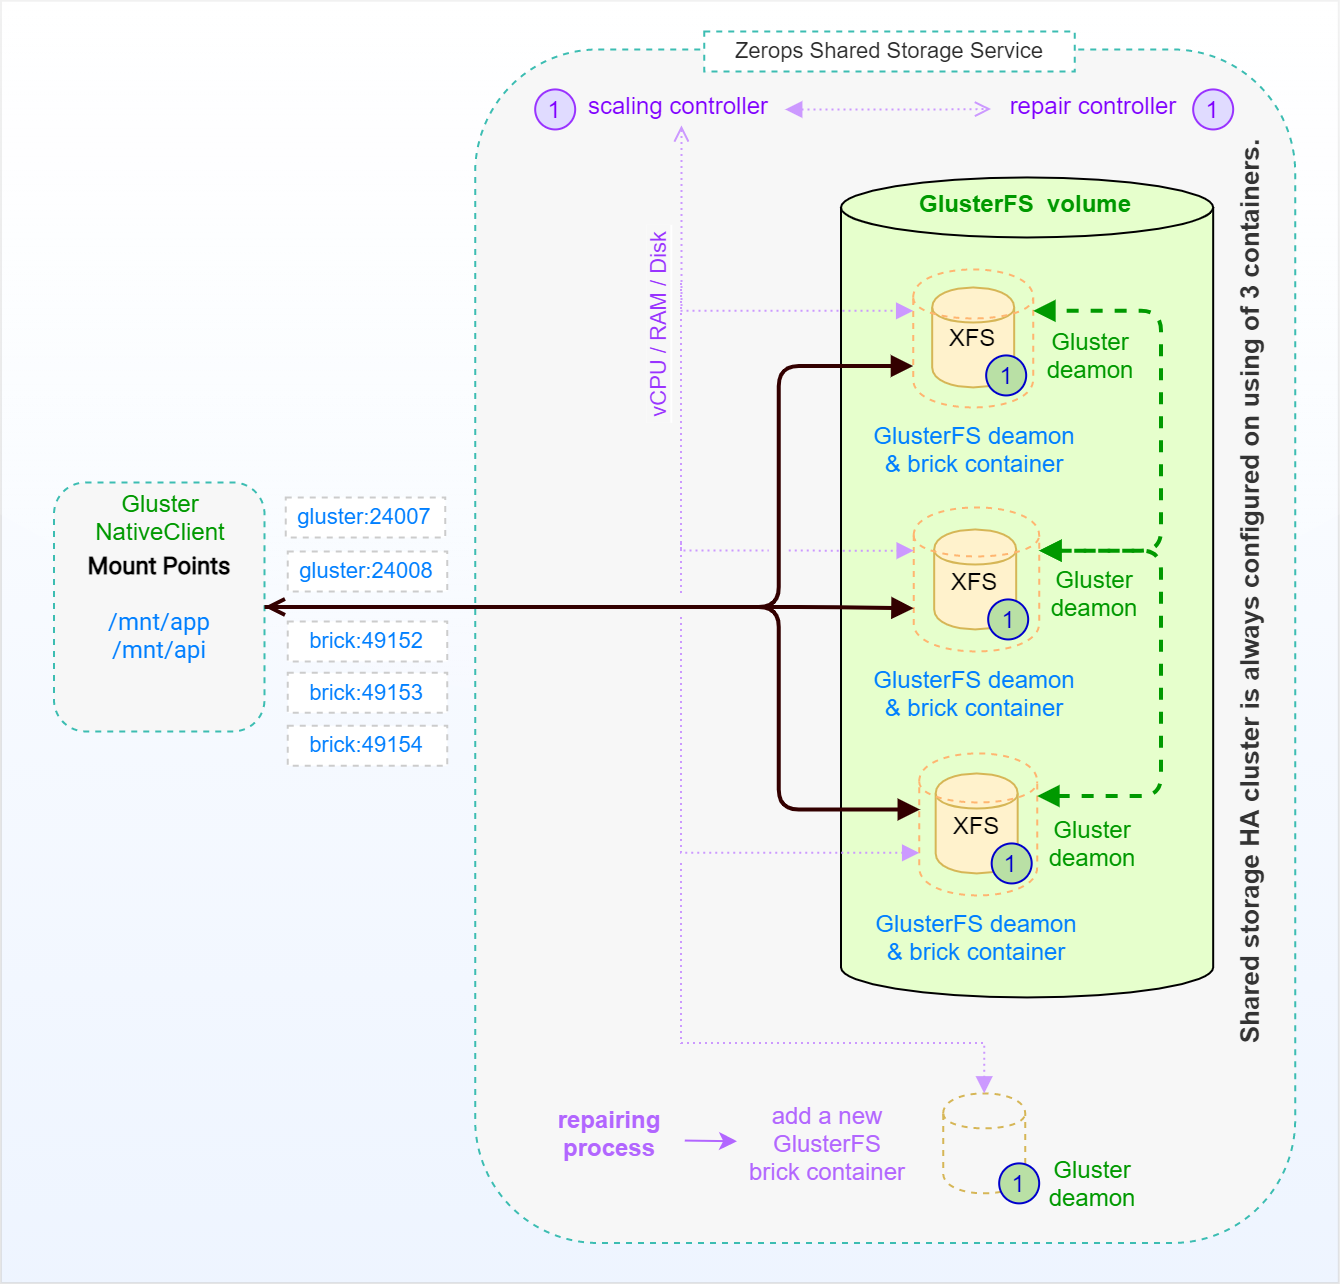
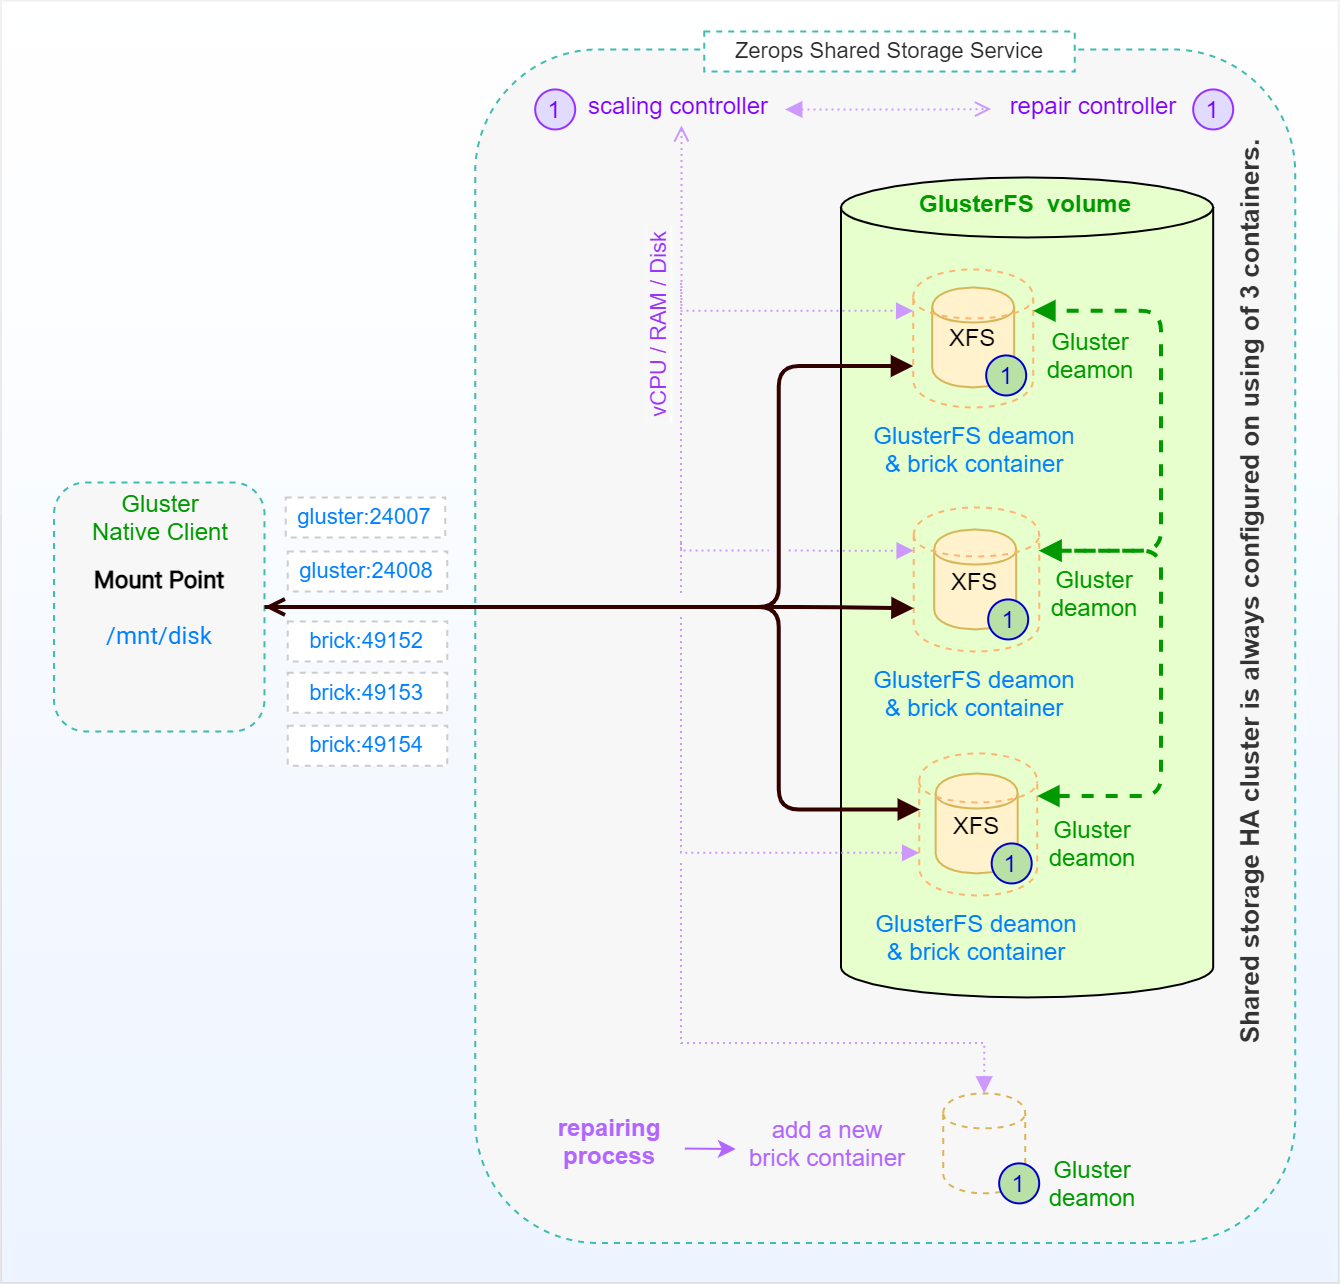
docs(services): shared storage

Changed region(s): [[0.0612, 0.4044, 0.1836, 0.5288], [0.5201, 0.8398, 0.6731, 0.9331], [0.3978, 0.8709, 0.4896, 0.902]]

diff --git a/src/documentation/overview/how-zerops-works-inside/glusterfs-cluster-internally.md b/src/documentation/overview/how-zerops-works-inside/glusterfs-cluster-internally.md
@@ -1,12 +1,12 @@
 # Shared Storage Service, Internal
 
-The following image shows a simplified schema of a [Zerops Shared Storage Service](/documentation/services/storage/shared.html) based on the [GlusterFS cluster](https://docs.gluster.org/en/latest/Quick-Start-Guide/Architecture) technology.
+The following picture shows a simplified schema of a [Zerops Shared Storage Service](/documentation/services/storage/shared.html) based on the [GlusterFS cluster](https://docs.gluster.org/en/latest/Quick-Start-Guide/Architecture) technology.
 
 A **gluster volume** in Zerops is a collection of 3 [containers](https://linuxcontainers.org/#LXD). Management **Gluster deamons** run on each container and manage brick processes (**GlusterFS deamons**), which in turn export the underlying on disk storage (XFS filesystem).
 
 The **gluster native client** process mounts the volume and exposes the storage from all the bricks as a single unified storage namespace to the applications accessing it. I/O from the applications is routed to different bricks based on internal optimization mechanisms and rules.
 
-The following picture supposes that the shared storage has been mounted in two [runtime services](/documentation/services/storage/shared.html#storage-mounting) with hostnames ==**app**== and ==**api**== .
+The picture also supposes that the chosen [shared storage name](/documentation/services/storage/shared.html#shared-storage-name) has been **disk** and mounted in any [runtime service](/documentation/services/storage/shared.html#storage-mounting).
 
 ![Zerops Shared Storage Service](./images/Zerops-GlusterFS-Service-Detail.png "Zerops Shared Storage Service")
 

diff --git a/src/documentation/overview/how-zerops-works-inside/mariadb-galera-cluster-internally.md b/src/documentation/overview/how-zerops-works-inside/mariadb-galera-cluster-internally.md
@@ -1,6 +1,6 @@
 # MariaDB Service in HA Mode, Internal
 
-The following image shows a simplified schema of a standalone [Zerops MariaDB Service](/documentation/services/databases/mariadb.html) in HA mode (with a default of 3 database instances in a [Galera cluster](https://mariadb.com/kb/en/galera-cluster)) without external access. This means no access from outside of the Zerops project infrastructure, such as the Internet. There is only native access through a private network using a [default port](/documentation/services/databases/mariadb.html#hostname-and-port) **==3306==** from the [Zerops Project Core Service](/documentation/overview/how-zerops-works-inside/typical-schemas-of-zerops-projects.html) itself, which is the heart of each user-defined Zerops project.
+The following picture shows a simplified schema of a standalone [Zerops MariaDB Service](/documentation/services/databases/mariadb.html) in HA mode (with a default of 3 database instances in a [Galera cluster](https://mariadb.com/kb/en/galera-cluster)) without external access. This means no access from outside of the Zerops project infrastructure, such as the Internet. There is only native access through a private network using a [default port](/documentation/services/databases/mariadb.html#hostname-and-port) **==3306==** from the [Zerops Project Core Service](/documentation/overview/how-zerops-works-inside/typical-schemas-of-zerops-projects.html) itself, which is the heart of each user-defined Zerops project.
 
 ## Simplified schema (no external access)
 

diff --git a/src/documentation/overview/how-zerops-works-inside/php-cluster-internally.md b/src/documentation/overview/how-zerops-works-inside/php-cluster-internally.md
@@ -1,6 +1,6 @@
 # PHP Service in HA Mode, Internal
 
-The following image shows a simplified schema of a standalone [Zerops PHP Service](/documentation/services/runtimes/php.html) in HA mode with a default of **3** runtime environment instances (horizontally scaled **up to 64** instances) as a **PHP cluster** without external access. This means no access from outside of the Zerops project infrastructure, such as the Internet. There is only native access through a private network using a [default port](/documentation/services/runtimes/php.html#hostname-and-port) **==80==** from the [Zerops Project Core Service](/documentation/overview/how-zerops-works-inside/typical-schemas-of-zerops-projects.html) itself, which is the heart of each user-defined Zerops project.
+The following picture shows a simplified schema of a standalone [Zerops PHP Service](/documentation/services/runtimes/php.html) in HA mode with a default of **3** runtime environment instances (horizontally scaled **up to 64** instances) as a **PHP cluster** without external access. This means no access from outside of the Zerops project infrastructure, such as the Internet. There is only native access through a private network using a [default port](/documentation/services/runtimes/php.html#hostname-and-port) **==80==** from the [Zerops Project Core Service](/documentation/overview/how-zerops-works-inside/typical-schemas-of-zerops-projects.html) itself, which is the heart of each user-defined Zerops project.
 
 ## Simplified schema (no external access)
 

diff --git a/src/documentation/overview/how-zerops-works-inside/ceph-cluster-internally.md b/src/documentation/overview/how-zerops-works-inside/ceph-cluster-internally.md
@@ -1,6 +1,6 @@
 # Object Storage Service, Internal
 
-The following image shows a simplified schema of a standalone shared [Zerops S3 compatible Object Storage Service](/documentation/services/storage/s3.html) based on the [Ceph cluster](https://docs.ceph.com/en/latest/architecture) technology. At the heart of the Ceph storage cluster is the **CRUSH** algorithm. It allows calculating which **Storage node** needs to be contacted for retrieving or storing data.
+The following picture shows a simplified schema of a standalone shared [Zerops S3 compatible Object Storage Service](/documentation/services/storage/s3.html) based on the [Ceph cluster](https://docs.ceph.com/en/latest/architecture) technology. At the heart of the Ceph storage cluster is the **CRUSH** algorithm. It allows calculating which **Storage node** needs to be contacted for retrieving or storing data.
 
 The Zerops Object Storage Service is directly accessible from everywhere using its public [API URL endpoint](/documentation/services/storage/s3.html#api-url-endpoint-and-port) through HTTPS protocol in the same way. So in this only one case, you don't need to utilize the [VPN](/documentation/cli/vpn.html) functionality of our [Zerops zcli](/documentation/cli/installation.html), unlike all other Zerops services.
 

diff --git a/src/documentation/overview/users.md b/src/documentation/overview/users.md
@@ -7,7 +7,7 @@ sidebarDepth: 3
 You can sign up using your email or your [GitHub](/documentation/github/login-with-github.html) or [GitLab](/documentation/gitlab/login-with-gitlab.html) account. You will then be able to create a company account of which you will be an administrator. You can then invite other team members to this company account. There is no limit on the number of team members you can invite, as we [encourage](/documentation/overview/made-for-developers.html#each-developer-should-have-his-own-account-no-artificial-pricing-boosting) each developer to have their own account and their own copy of each project.
 
 ::: warning On roles
-Currently, in the private beta version, we do not have a role / restriction system implemented yet. We plan to have that done by the time we reach the production stage.
+Currently, we do not have a role / restriction system implemented yet. It's scheduled, and we hope to have it in the near future.
 :::
 
 <br />
